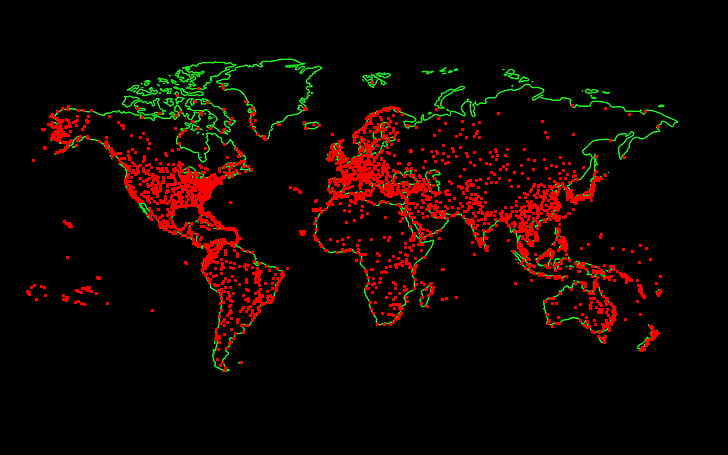
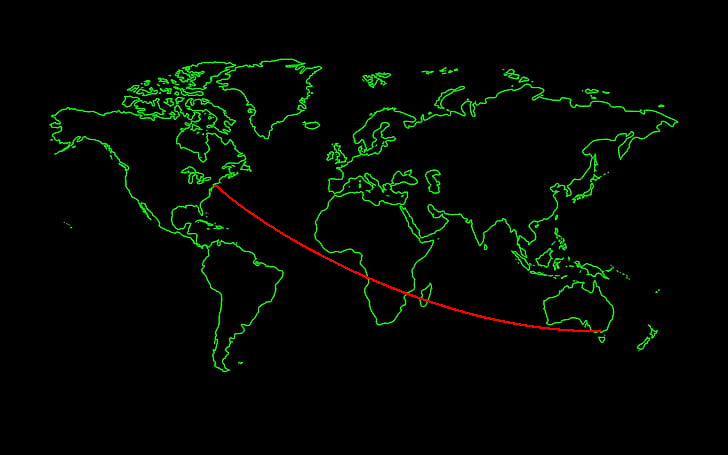
paths

diff --git a/main.cpp b/main.cpp
@@ -16,12 +16,11 @@ int main() {
     cout << "Loading flights\n";
     system.readFlights();
     script.open();
-
+    /*
     for( auto airport : system.getAirports()){
-
         int x=round(airport.getLongitude()*1.7621+343.4);
         int y=  260 -round(1.23*(450/(2*M_PI)*log2(tan(M_PI/4+airport.getLatitude()*M_PI*0.4/180))));
-        /*
+
         int y=0;
         if( airport.getLatitude()<0){
             y=round(airport.getLatitude()*(-1.909)+258.71);
@@ -33,35 +32,49 @@ int main() {
             }
 
         }
-        */
-
-        script.fill(x,y,3,3,255,0,0);
 
 
-
+       // script.fill(x,y,3,3,255,0,0);
 
     }
+    Airport airport1 = *system.getAirports().find(Airport("JFK", "", "", "", 0, 0));
+    Airport airport2 = *system.getAirports().find(Airport("MEB", "", "", "", 0, 0));
+
+    double currentLat=airport1.getLatitude();
+    double currentLong=airport1.getLongitude();
+    double targetLat=airport2.getLatitude();
+    double targetLong=airport2.getLongitude();
+    while(abs(targetLat-currentLat)>0.01 or abs(targetLong-currentLong)>0.01){
+        double deltaX=(targetLong-currentLong)/360;
+        currentLong+=deltaX;
+        double deltay=(targetLat-currentLat)/180;
+        currentLat+=deltay;
+        int x = round(currentLong* 1.7621 + 343.4);
+        int y = 260 - round(1.23 * (450 / (2 * M_PI) * log2(tan(M_PI / 4 + currentLat* M_PI * 0.4 / 180))));
+        script.fill(x, y, 2, 2, 255, 0, 0);
+    }
+
+    script.save();
+    cout<<"END"<<endl;*/
+    Airport airport1 = *system.getAirports().find(Airport("JFK", "", "", "", 0, 0));
+    Airport airport2 = *system.getAirports().find(Airport("MEB", "", "", "", 0, 0));
+
+    double currentLat=airport1.getLatitude();
+    double currentLong=airport1.getLongitude();
+    double targetLat=airport2.getLatitude();
+    double targetLong=airport2.getLongitude();
+    while(abs(targetLat-currentLat)>0.01 or abs(targetLong-currentLong)>0.01){
+        double deltaX=(targetLong-currentLong)/360;
+        currentLong+=deltaX;
+        double deltay=(targetLat-currentLat)/180;
+        currentLat+=deltay;
+        int x = round(currentLong* 1.7621 + 343.4);
+        int y = 260 - round(1.23 * (450 / (2 * M_PI) * log2(tan(M_PI / 4 + currentLat* M_PI * 0.4 / 180))));
+        script.fill(x, y, 2, 2, 255, 0, 0);
+    }
+
     script.save();
     cout<<"END"<<endl;
-    /*
-    set < Airport > source;
-    set < Airport > target;
-    source.insert(*system.getAirports().find(Airport("ZLT", "", "", "", 0, 0)));
-    source.insert(*system.getAirports().find(Airport("OPO", "", "", "", 0, 0)));
 
-    target.insert(*system.getAirports().find(Airport("SRV", "", "", "", 0, 0)));
-    target.insert(*system.getAirports().find(Airport("JFK", "", "", "", 0, 0)));
-    target.insert(*system.getAirports().find(Airport("CDG", "", "", "", 0, 0)));
-    vector<vector<Airport>> paths = system.findBestFlights(source, target);
-    for (auto i : paths){
-        cout << "Trip:\n";
-        for (auto j : i){
-            cout << j.getCode() << " ";
-        }
-    }
-
-    cout << endl;
-    Menu menu(system);
-    menu.start();*/
     return 0;
 }
